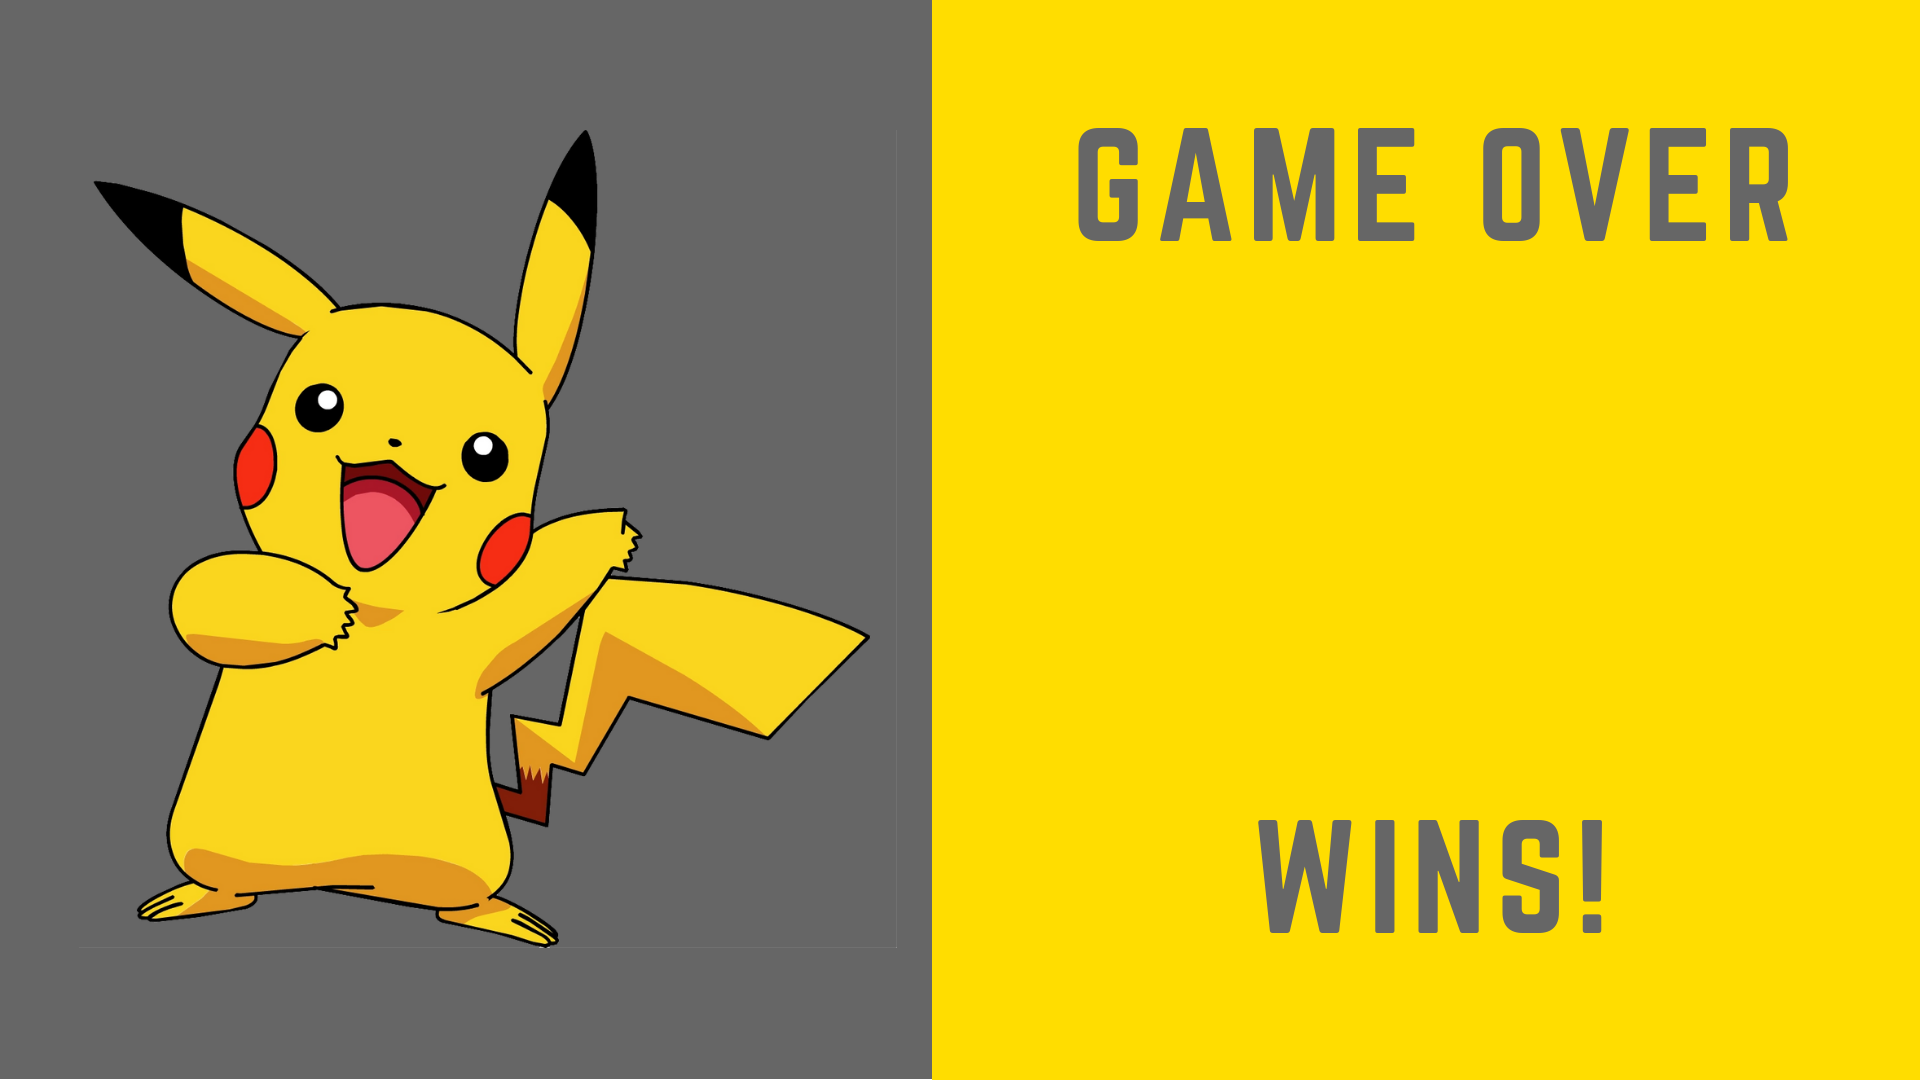
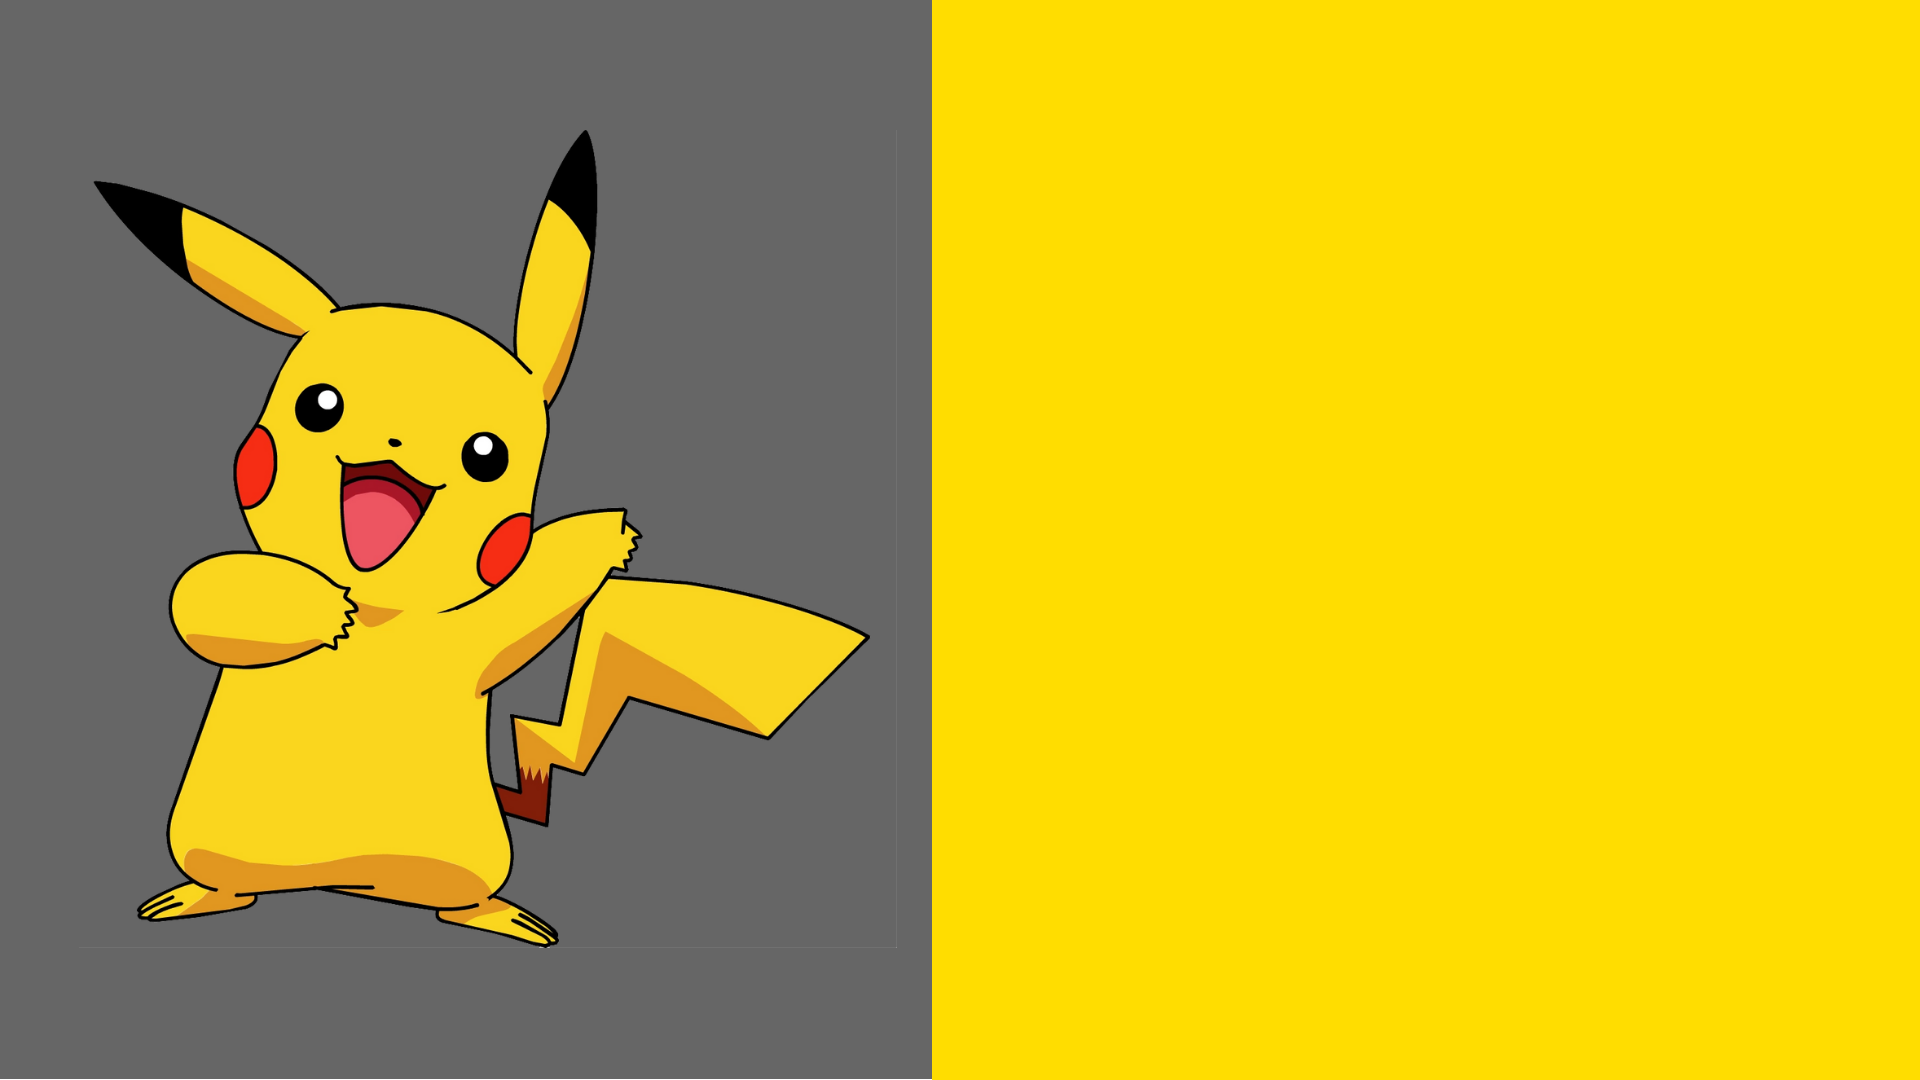
done

Changed region(s): [[0.5625, 0.1222, 0.9375, 0.2444], [0.6562, 0.7639, 0.8438, 0.8861]]

diff --git a/src/index.js b/src/index.js
@@ -8,7 +8,6 @@ document.addEventListener("DOMContentLoaded", () => {
   const enterGameBtn = document.querySelector("#enter-game-btn");
   const playerForm = document.querySelector("#player-name-form");
   const rulesImg = document.querySelector("#rules-img");
-  const winnerSpan = document.querySelector("#winner-span");
 
   const bombSound = new Audio("sounds/bomb.mp3");
   const pikaSound = new Audio("sounds/pikachu.mp3");
@@ -36,48 +35,49 @@ document.addEventListener("DOMContentLoaded", () => {
   })
 
   rulesImg.addEventListener("click", (event) => {
+    rulesImg.style.display = "none";
     background.style.display = "grid";
     backdrop.style.display = "block";
     document.body.addEventListener("keydown", eventFn);
   })
 
   let eventFn = (e) => {
+    // console.log(e.keyCode);
     if (gameoverStatus === false) {
-      if (e.key === "z") {
+      if (e.keyCode === 88) {
         dropBomb(currentLocation1[0], currentLocation1[1], power1);
       }
-      if (e.key === "n") {
+      if (e.keyCode === 190) {
         dropBomb(currentLocation2[0], currentLocation2[1], power2);
       }
-      if (e.key === "i") {
+      if (e.keyCode === 38) {
         moveUp(currentLocation2, 2);
       }
-      if(e.key === "k"){
+      if(e.keyCode === 40){
         moveDown(currentLocation2, 2)
       }
-      if(e.key === "j"){
+      if(e.keyCode === 37){
         moveLeft(currentLocation2, 2)
       }
-      if(e.key === "l"){
+      if(e.keyCode === 39){
         moveRight(currentLocation2, 2)
       }
-      if (e.key === "w") {
+      if (e.keyCode === 87) {
         moveUp(currentLocation1, 1);
       }
-      if(e.key === "s"){
+      if(e.keyCode === 83){
         moveDown(currentLocation1, 1)
       }
-      if(e.key === "a"){
+      if(e.keyCode === 65){
         moveLeft(currentLocation1, 1)
       }
-      if(e.key === "d"){
+      if(e.keyCode === 68){
         moveRight(currentLocation1, 1)
       }
     }
   }
 
-  fetch("http://localhost:3000/api/v1/grids")
-  .then(response => response.json())
+  Adapter.getGrids()
   .then(gridObjs => {
     gridObjs.map(gridObj => {
       new Grid(gridObj);
@@ -108,27 +108,40 @@ document.addEventListener("DOMContentLoaded", () => {
       let currentGrid = getGridElement(currentGridId);
       let topGridId = getGridId(location[0], location[1] - 1);
       let topGrid = getGridElement(topGridId);
-      if (!["brick", "bomb"].includes(topGrid.dataset.category)) {
-        location[1]--;
 
+      console.log(currentGrid.dataset.category);
+      if (currentGrid.dataset.category === "fire") {
+        currentGrid.dataset.category = "burned";
+        currentGrid.src = "media/burned.png";
+        debugger
+        winner.innerText += player === 1 ? `${player2Name} Wins!`.toUpperCase() : `${player1Name} Wins!`.toUpperCase();
+        gameoverStatus === true;
+        setTimeout(showGameover, 4000)
+      } else if (currentGrid.dataset.category === "bomb") {
+          currentGrid.src = "media/bomb.png";
+      } else if (currentGrid.dataset.category === "background") {
+          currentGrid.src = "media/background.jpg";
+      } else if (currentGrid.dataset.category === `player${player}`) {
+          currentGrid.dataset.category = "background";
+          currentGrid.src = "media/background.jpg";
+      }
+
+      if (topGrid.dataset.category === "fire") {
+        topGrid.dataset.category = "burned";
+        topGrid.src = "media/burned.png";
+        winner.innerText += player === 1 ? `${player2Name} Wins!`.toUpperCase() : `${player1Name} Wins!`.toUpperCase();
+        gameoverStatus === true;
+        setTimeout(showGameover, 4000)
+      }
+
+      if (!["brick", "bomb", "fire"].includes(topGrid.dataset.category)) {
+        location[1]--;
         topGrid.dataset.category = `player${player}`;
         topGrid.src = `media/avatar${player}.png`;
         if (topGrid.dataset.power === "true") {
           player === 1 ? power1++ : power2++
           topGrid.dataset.power = "false"
         }
-
-        if (currentGrid.dataset.category === "fire") {
-          currentGrid.src = "media/burned.png";
-        } else if (currentGrid.dataset.category === "bomb") {
-            currentGrid.src = "media/bomb.png";
-          } else if (currentGrid.dataset.category === "background") {
-            currentGrid.src = "media/background.jpg";
-          } else if (currentGrid.dataset.category === `player${player}`) {
-            currentGrid.dataset.category = "background";
-            currentGrid.src = "media/background.jpg";
-          }
-
         player === 1 ? currentGrid1 = topGrid : currentGrid2 = topGrid
       }
     }
@@ -263,22 +276,7 @@ document.addEventListener("DOMContentLoaded", () => {
         bombSound.play();
       })
 
-      if (currentGrid1.dataset.category === "fire" && gameoverStatus === false) {
-        gameoverStatus = true;
-        currentGrid1.src = "media/burned.png";
-        currentGrid1.dataset.category = "burned";
-        winnerSpan.innerText = `${player2Name}`.toUpperCase();
-        setTimeout(showGameover, 5000)
-      }
-      if (currentGrid2.dataset.category === "fire" && gameoverStatus === false) {
-        gameoverStatus = true;
-        currentGrid2.src = "media/burned.png";
-        currentGrid2.dataset.category = "burned";
-        winnerSpan.innerText = `${player1Name}`.toUpperCase();
-        setTimeout(showGameover, 5000)
-      }
-
-      setTimeout(removeFire, 1800);
+    setTimeout(removeFire, 800);
 
     function removeFire() {
       currentGridId1 = getGridId(currentLocation1[0], currentLocation1[1]);
@@ -297,16 +295,38 @@ document.addEventListener("DOMContentLoaded", () => {
           }
         }
       })
-    }
+    } //remove fire
+  } //show fire
+}  //drop bomb
+
+  // function checkGameover(grid, player) {
+  //   if (currentGrid1.dataset.category === "fire" && gameoverStatus === false) {
+  //     gameoverStatus = true;
+  //     currentGrid1.src = "media/burned.png";
+  //     currentGrid1.dataset.category = "burned";
+  //     winner.innerText += `${player2Name} Wins!`.toUpperCase();
+  //     setTimeout(showGameover, 4000)
+  //   }
+  //   if (currentGrid2.dataset.category === "fire" && gameoverStatus === false) {
+  //     gameoverStatus = true;
+  //     currentGrid2.src = "media/burned.png";
+  //     currentGrid2.dataset.category = "burned";
+  //     winner.innerText += `${player1Name} Wins!`.toUpperCase();
+  //     setTimeout(showGameover, 4000)
+  //   }
+  //   }
+
+  function showGameover(){
+    gameoverStatus = true;
+    pikaSound.play();
+    background.style.display = "none";
+    backdrop.style.display = "none";
+    gameover.style.display = "block";
   }
 
-    function showGameover(){
-      gameoverStatus = true;
-      pikaSound.play();
-      gameover.style.display = "block";
-      winner.style.display = "block";
-      background.style.display = "none";
-    }
-  }
+// Restart the game
+  gameover.addEventListener("click", e => {
+    window.location.href = "index.html"
+  })
 
 });

diff --git a/index.html b/index.html
@@ -8,6 +8,7 @@
     <link href="https://fonts.googleapis.com/css?family=Anton" rel="stylesheet">
     <script type="text/javascript" src="src/index.js"></script>
     <script type="text/javascript" src="src/grid.js"></script>
+    <script type="text/javascript" src="src/adapter.js"></script>
   </head>
   <body>
     <div id="login">
@@ -24,7 +25,15 @@
     <div id="background">
     </div>
     <img id="backdrop" src="media/backdrop.png" alt="">
-    <img id="gameover" src="media/gameover.png" alt="">
-    <div id="winner" class="blink"><span id="winner-span"></span></div>
+    <div id="gameover">
+      <img id="gameover-img" src="media/gameover.png" alt="">
+      <div class="row">
+        <div class="gameover-text col-6">
+        </div>
+      <div id="winner" class="gameover-text col-6 blink">
+         GAME OVER
+      </div>
+    </div>
+    </div>
   </body>
 </html>

diff --git a/style.css b/style.css
@@ -20,12 +20,20 @@
 
 #gameover {
   display: none;
+}
+
+#gameover-img {
   position: fixed;
   left: 0;
   top: 0;
   width: 100%;
   height: 100%;
   z-index: -1;
+}
+
+.gameover-text {
+  z-index: 1;
+  text-align:center;
 }
 
 #login-img {
@@ -74,30 +82,12 @@
 }
 
 #winner {
-  display: none;
-  width: 150%;
-  height: 60%;
-  top: 85%;
-  left: 20%;
-  font-size: 200%;
-}
-
-.blink{
-  width:200px;
-  height: 50px;
-  padding: 15px;
+  top: 30%;
+  left: 51%;
+  font-size: 450%;
+  letter-spacing: 3px;
   text-align: center;
-  line-height: 50px;
-}
-
-span{
-  font-family: 'Anton', sans-serif;
-  font-size: 25px;
-  color: #3D454E;
-  animation: blink 2s linear infinite;
-}
-@keyframes blink{
-0%{opacity: 0;}
-50%{opacity: .5;}
-100%{opacity: 1;}
+  position: absolute;
+  font-family: Anton;
+  color: #666666;
 }

diff --git a/src/adapter.js b/src/adapter.js
@@ -1,5 +1,5 @@
-class Adaper {
-  getGrids() {
-    return 
+class Adapter {
+  static getGrids() {
+    return fetch("http://localhost:3000/api/v1/grids").then(response => response.json())
   }
 }
